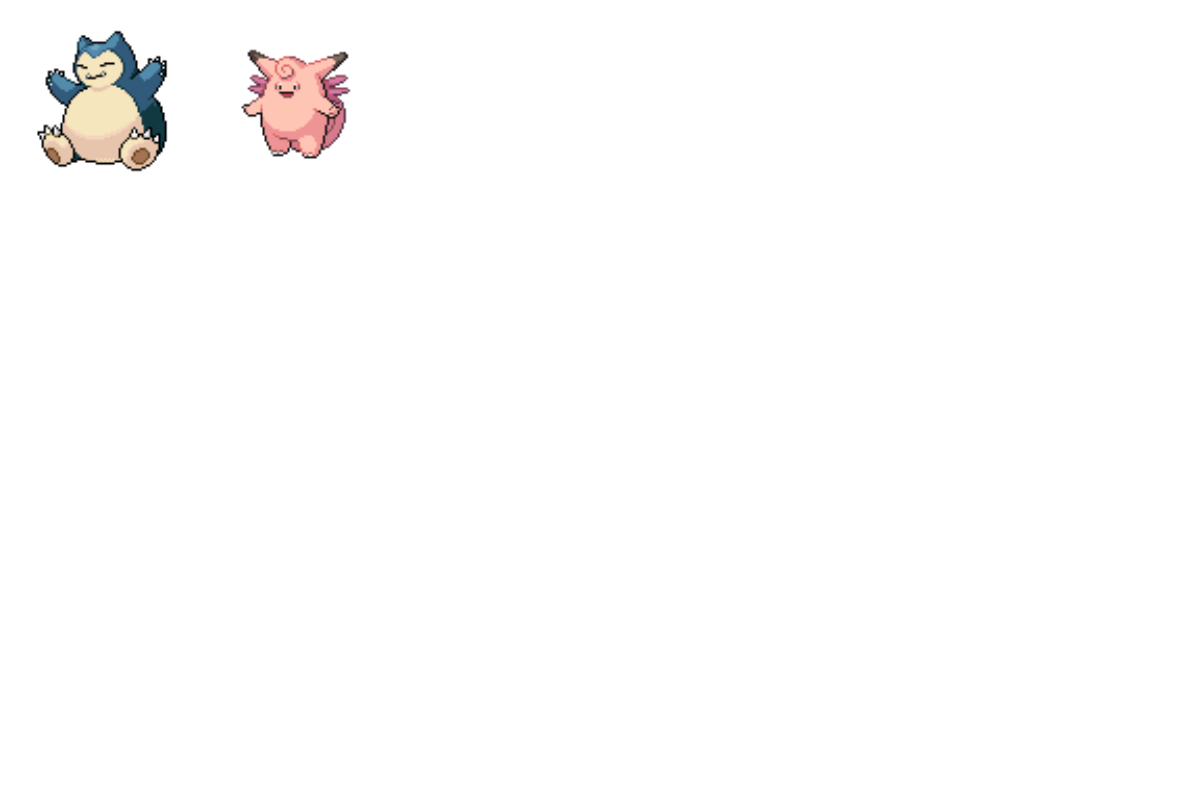
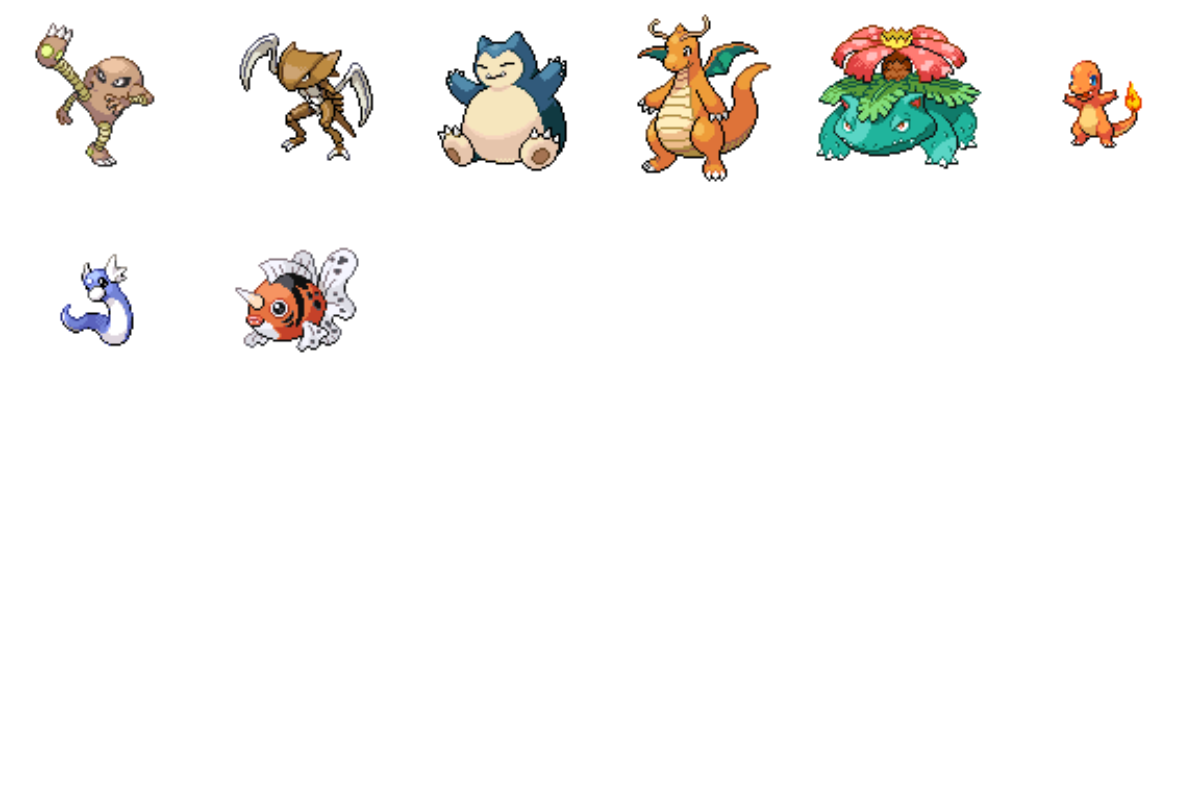
edited image generation, improved builder

diff --git a/controllers/api/canvasRoutes.js b/controllers/api/canvasRoutes.js
@@ -24,12 +24,14 @@ router.get("/:id", async (req, res) => {
       const sprite = pokemons[i].species.image;
 
       await loadImage(sprite).then((sprite) => {
-        context.drawImage(sprite, 200 * i, 0, 200, 200);
+        let x = (i % 6) * 200;
+        let y = Math.floor(i / 6) * 200;
+        context.drawImage(sprite, x, y, 200, 200);
       });
     }
     const buffer = myCanvas.toBuffer("image/png");
     fs.writeFileSync("./public/downloads/image.png", buffer);
-
+    fs.close();
     res.send("./public/downloads/image.png");
   } catch (error) {
     res.status(400).json(error);
